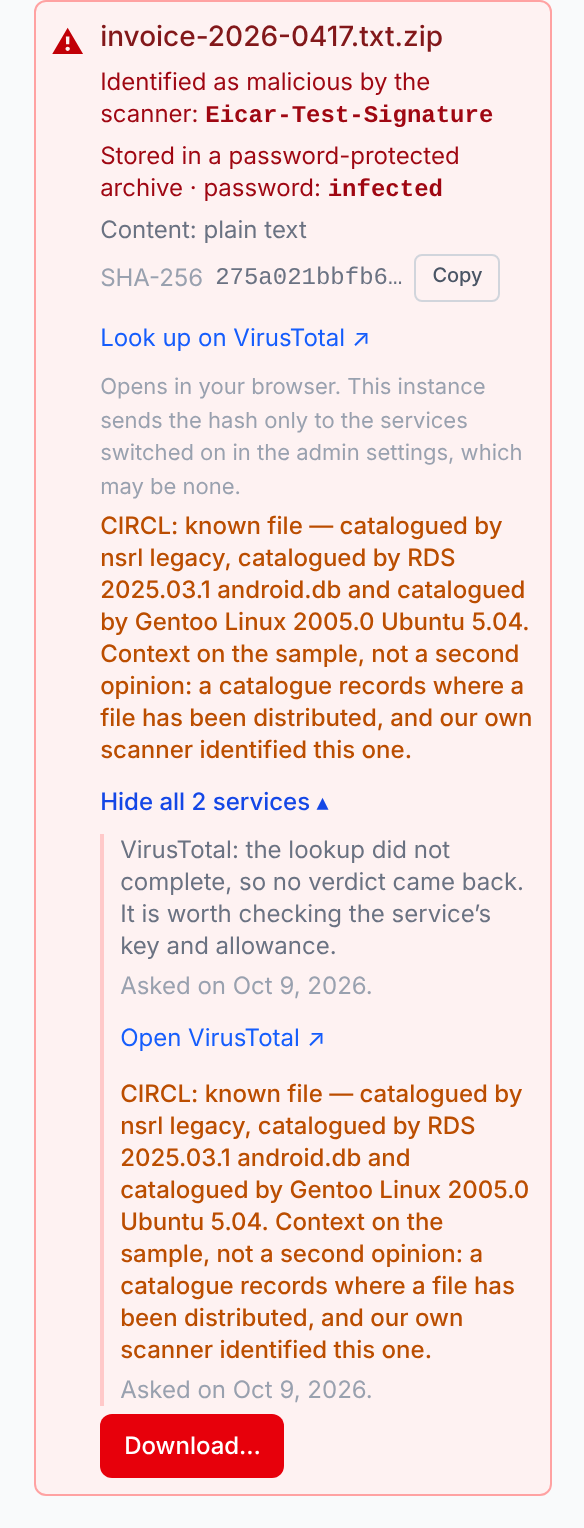
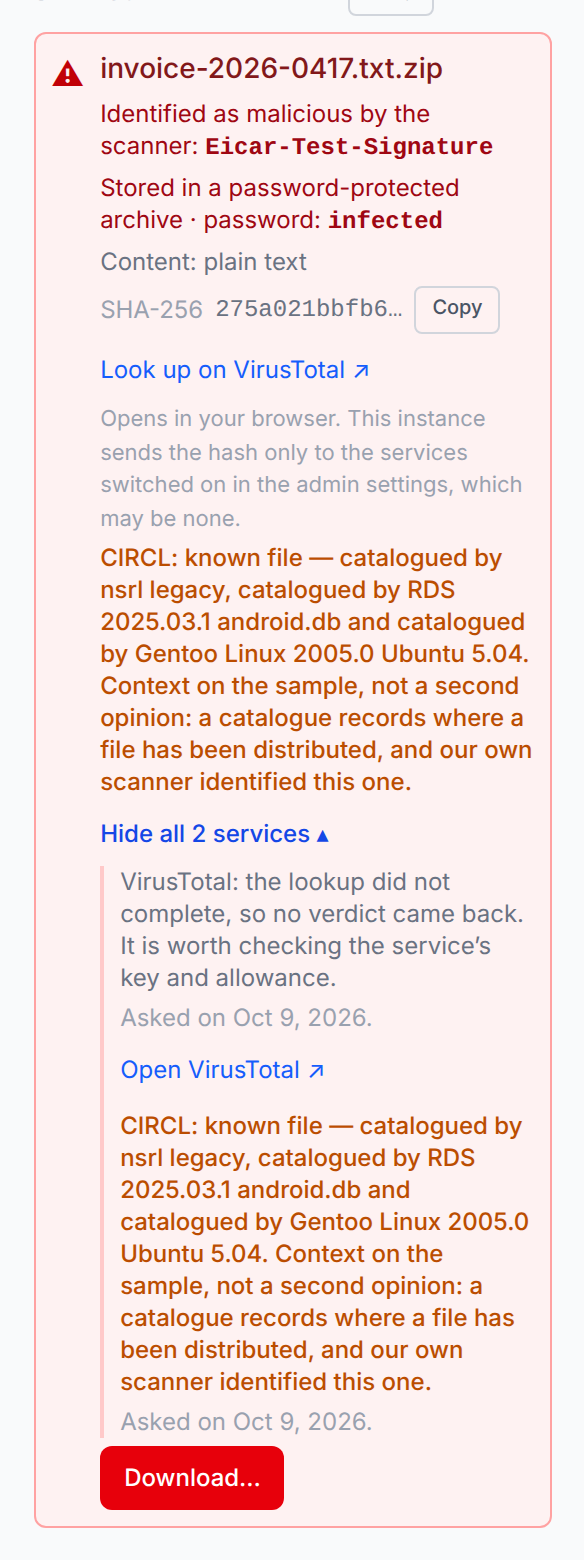
screenshots: final run at v1.3.0 (footer reads v1.3.0), shot 14 full width; match image sizes and alt text
Taken by scripts/screenshots.sh with SHOTS_VERSION=1.3.0.

Claude-Session: https://claude.ai/code/session_01UTu6tR4D4HzCfvbhDFmEZ5

Changed region(s): [[0.0616, 0.0, 0.9555, 0.9535]]

diff --git a/docs/attachment-security.html b/docs/attachment-security.html
@@ -275,7 +275,7 @@
 <h3>What staff see</h3>
 <p>A ticket holding quarantined attachments carries a persistent red banner naming how many there are. Each quarantined row shows the scanner's name for the detection, the archive password, the detected type, the SHA-256 with a copy control, and a <em>Download…</em> button that opens a confirmation dialog rather than a link. The download URL is deliberately not on the row: a link that calls <code>preventDefault</code> is still reachable by middle-click, "Save link as" and the keyboard context menu, and a button is not.</p>
 
-<img src="../screenshots/12-quarantined-attachment.png" alt="A ticket with a red banner saying one attachment was quarantined, and the quarantined row showing the detection name, the archive password, the content type, the SHA-256 with a Copy button, a VirusTotal link and a Download button" width="2880" height="3300" loading="lazy" style="width:100%;height:auto;border:1px solid var(--border);border-radius:8px;" />
+<img src="../screenshots/12-quarantined-attachment.png" alt="A ticket with a red banner saying one attachment was quarantined, and the quarantined row showing the detection name, the archive password, the content type, the SHA-256 with a Copy button, a VirusTotal link and a Download button" width="2880" height="3184" loading="lazy" style="width:100%;height:auto;border:1px solid var(--border);border-radius:8px;" />
 
 
 <h2 id="attach-download">Downloads are downloads. Nothing is ever rendered</h2>
@@ -402,7 +402,7 @@
 
 <p>Staff get a <em>Check again</em> control on a verdict that can still change. The server allows <strong>one manual re-check per hash per service every seven days</strong>, whatever the interval says — including when it says <code>never</code>, because an operator who turned automatic checking off to save quota did not mean that nobody may ever ask. It is a floor and not an override: the daily budget still applies, a re-check inside the week is refused with the date it clears, and a re-check of a final verdict is refused outright. The control is disabled rather than hidden while the week runs.</p>
 
-<img src="../screenshots/13-attachment-reputation.png" alt="The expanded reputation view for a quarantined attachment: VirusTotal's lookup did not complete, and CIRCL reports the file as known, with an Asked on date for each service" width="584" height="1528" loading="lazy" style="width:100%;max-width:292px;height:auto;border:1px solid var(--border);border-radius:8px;" />
+<img src="../screenshots/13-attachment-reputation.png" alt="The expanded reputation view for a quarantined attachment: VirusTotal's lookup did not complete, and CIRCL reports the file as known, with an Asked on date for each service" width="584" height="1560" loading="lazy" style="width:100%;max-width:292px;height:auto;border:1px solid var(--border);border-radius:8px;" />
 
 <h3>No provider can hold a page open</h3>
 

diff --git a/docs/admin-guide.html b/docs/admin-guide.html
@@ -876,7 +876,7 @@ function verifySignature(secret, body, header) {
 
 <p>A hash is not a file: nothing here ever uploads one, and only files the scanner identified are looked up. The full account of what leaves the server is on the <a href="attachment-security.html#attach-reputation">Attachment Security</a> page.</p>
 
-<img src="../screenshots/14-admin-settings-attachments.png" alt="The reputation lookup section of Admin Settings, Attachments: VirusTotal switched on with its key stored, MetaDefender and PolySwarm off, CIRCL on, each service with its terms panel" width="1408" height="5084" loading="lazy" style="width:100%;height:auto;border:1px solid var(--border);border-radius:8px;" />
+<img src="../screenshots/14-admin-settings-attachments.png" alt="Admin Settings, Attachments tab: the allowed file types, what happens when a file's content contradicts its name, the malware scanner address and policy, and the start of Reputation lookup with the VirusTotal and MetaDefender settings and their terms notices" width="2880" height="5200" loading="lazy" style="width:100%;height:auto;border:1px solid var(--border);border-radius:8px;" />
 
 <div class="callout callout-note">
   <p><strong>Upgrading from an earlier reputation setting?</strong> Nothing is migrated. The old <code>attachment_vt_lookup</code> / <code>attachment_vt_api_key</code> pair and the <code>attachment_reputation_provider</code> / <code>attachment_reputation_api_key</code> pair that replaced them are read by nothing, and are due to be deleted by a migration in the release after 1.3.0. Re-enter your key against the service you want — copying somebody’s secret from one setting to another on their behalf is not something to do quietly.</p>
